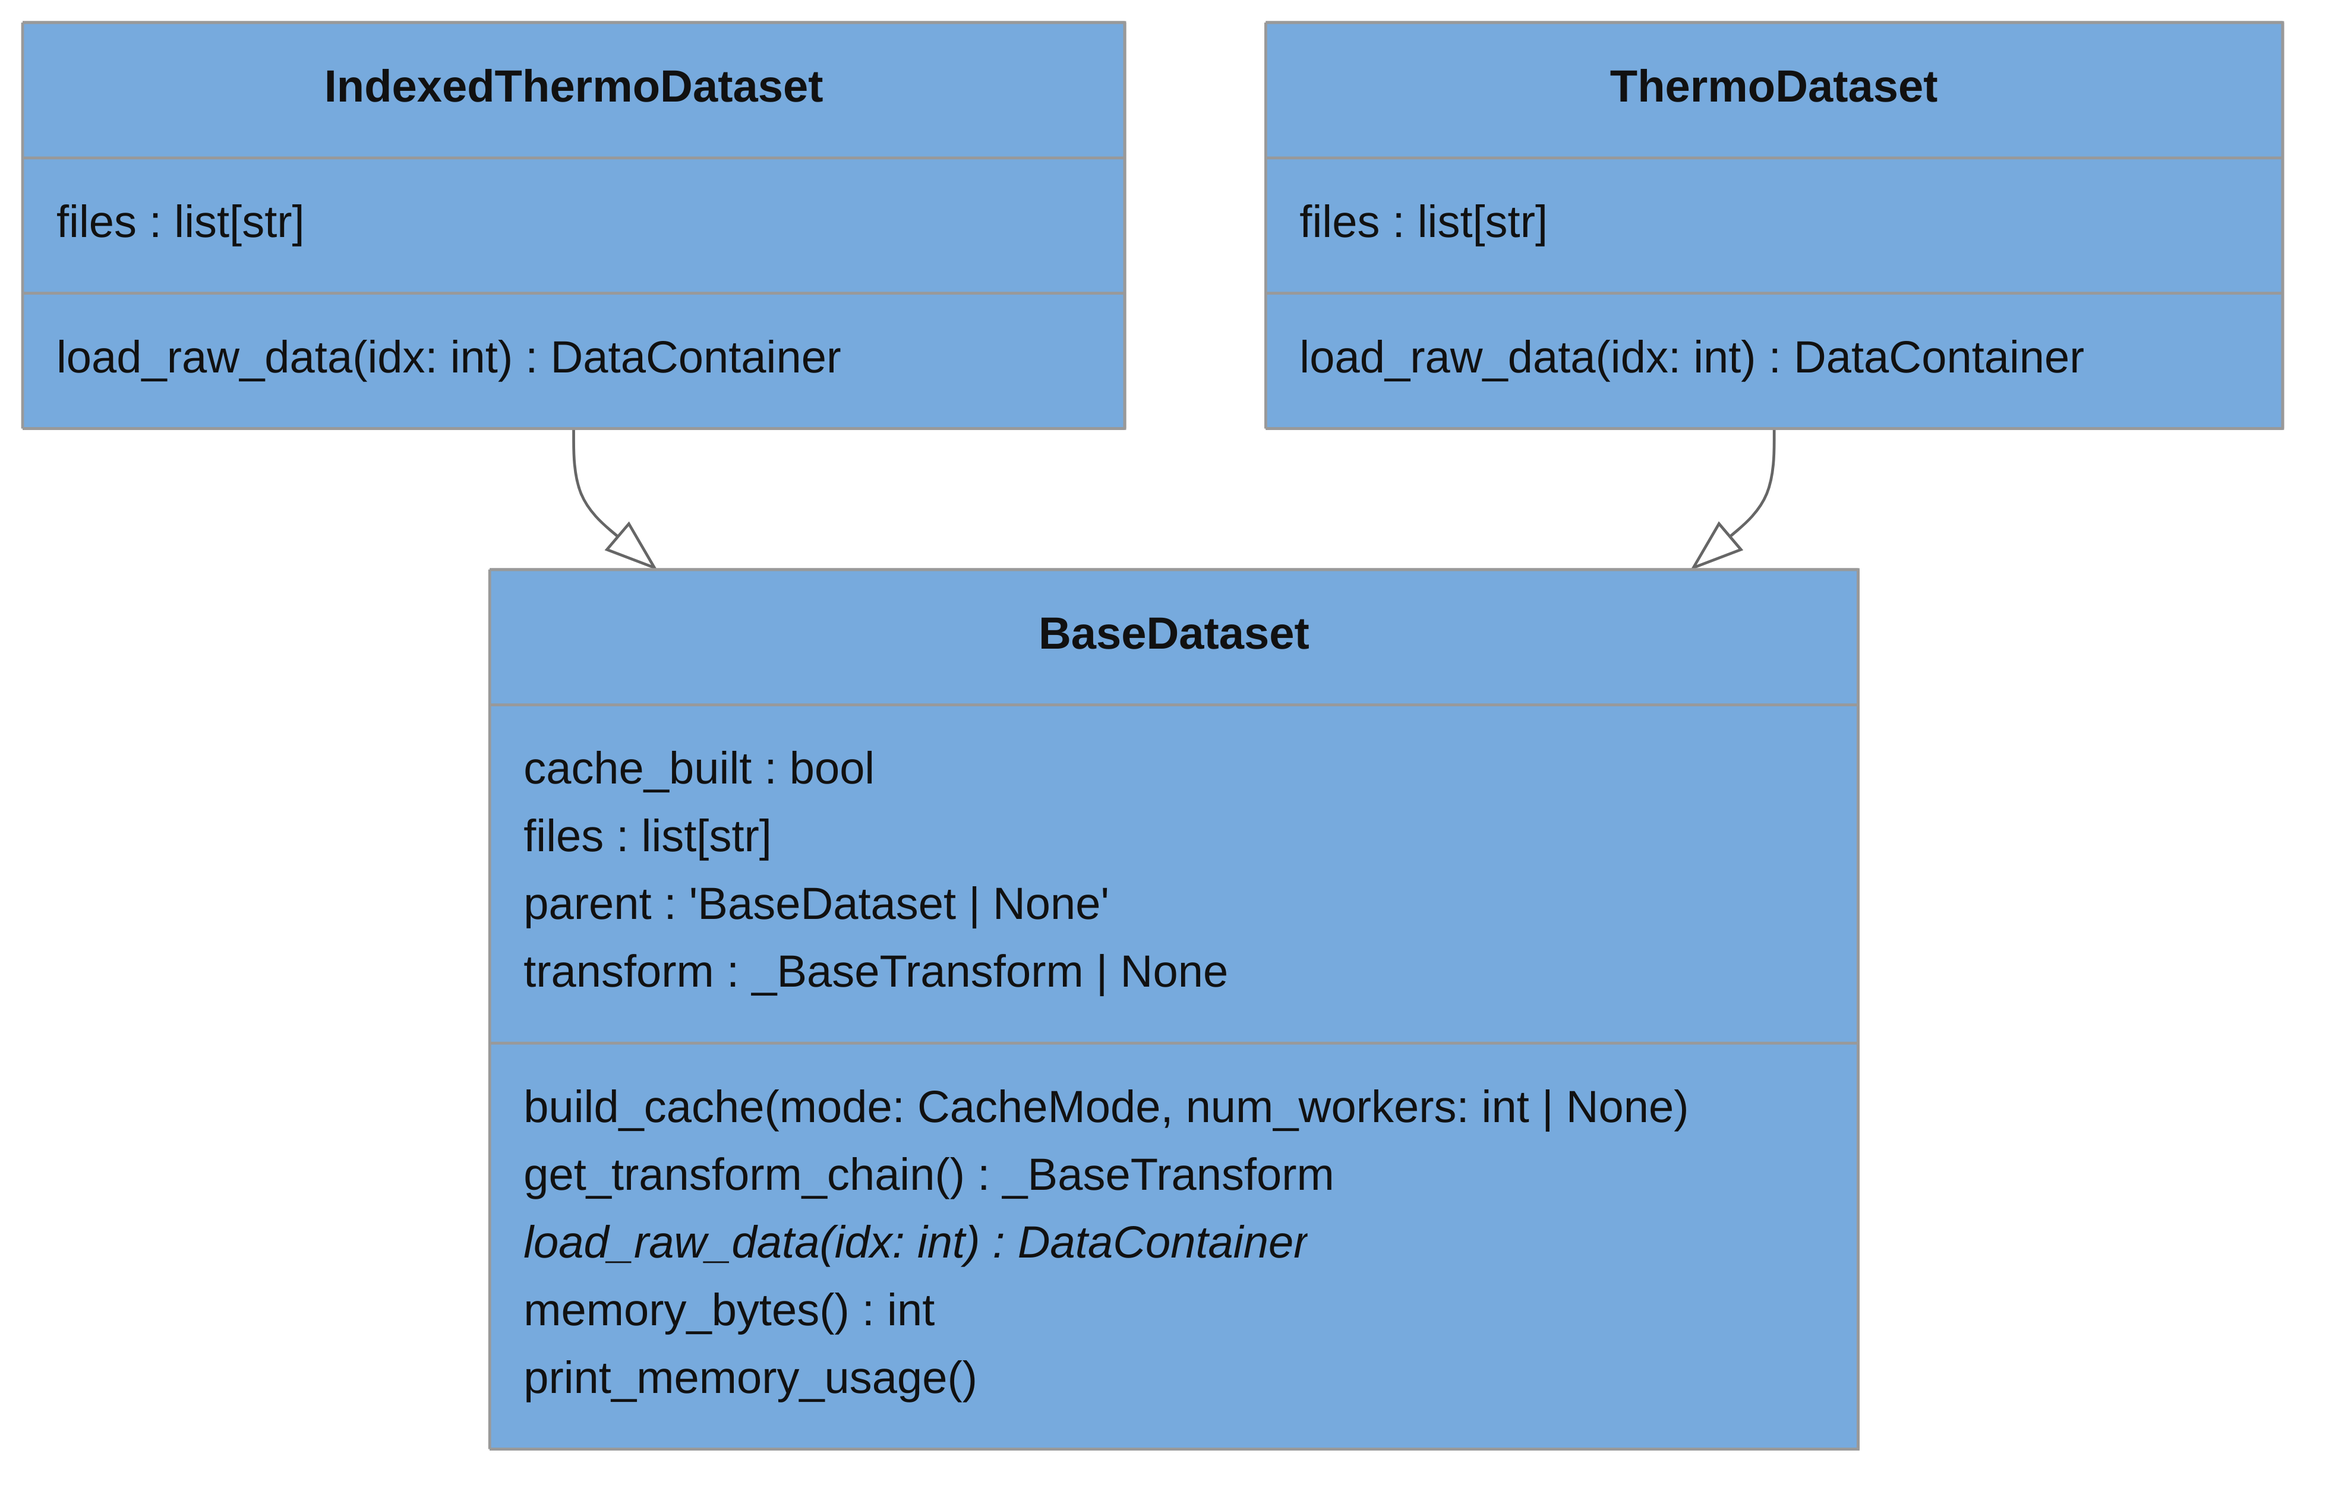
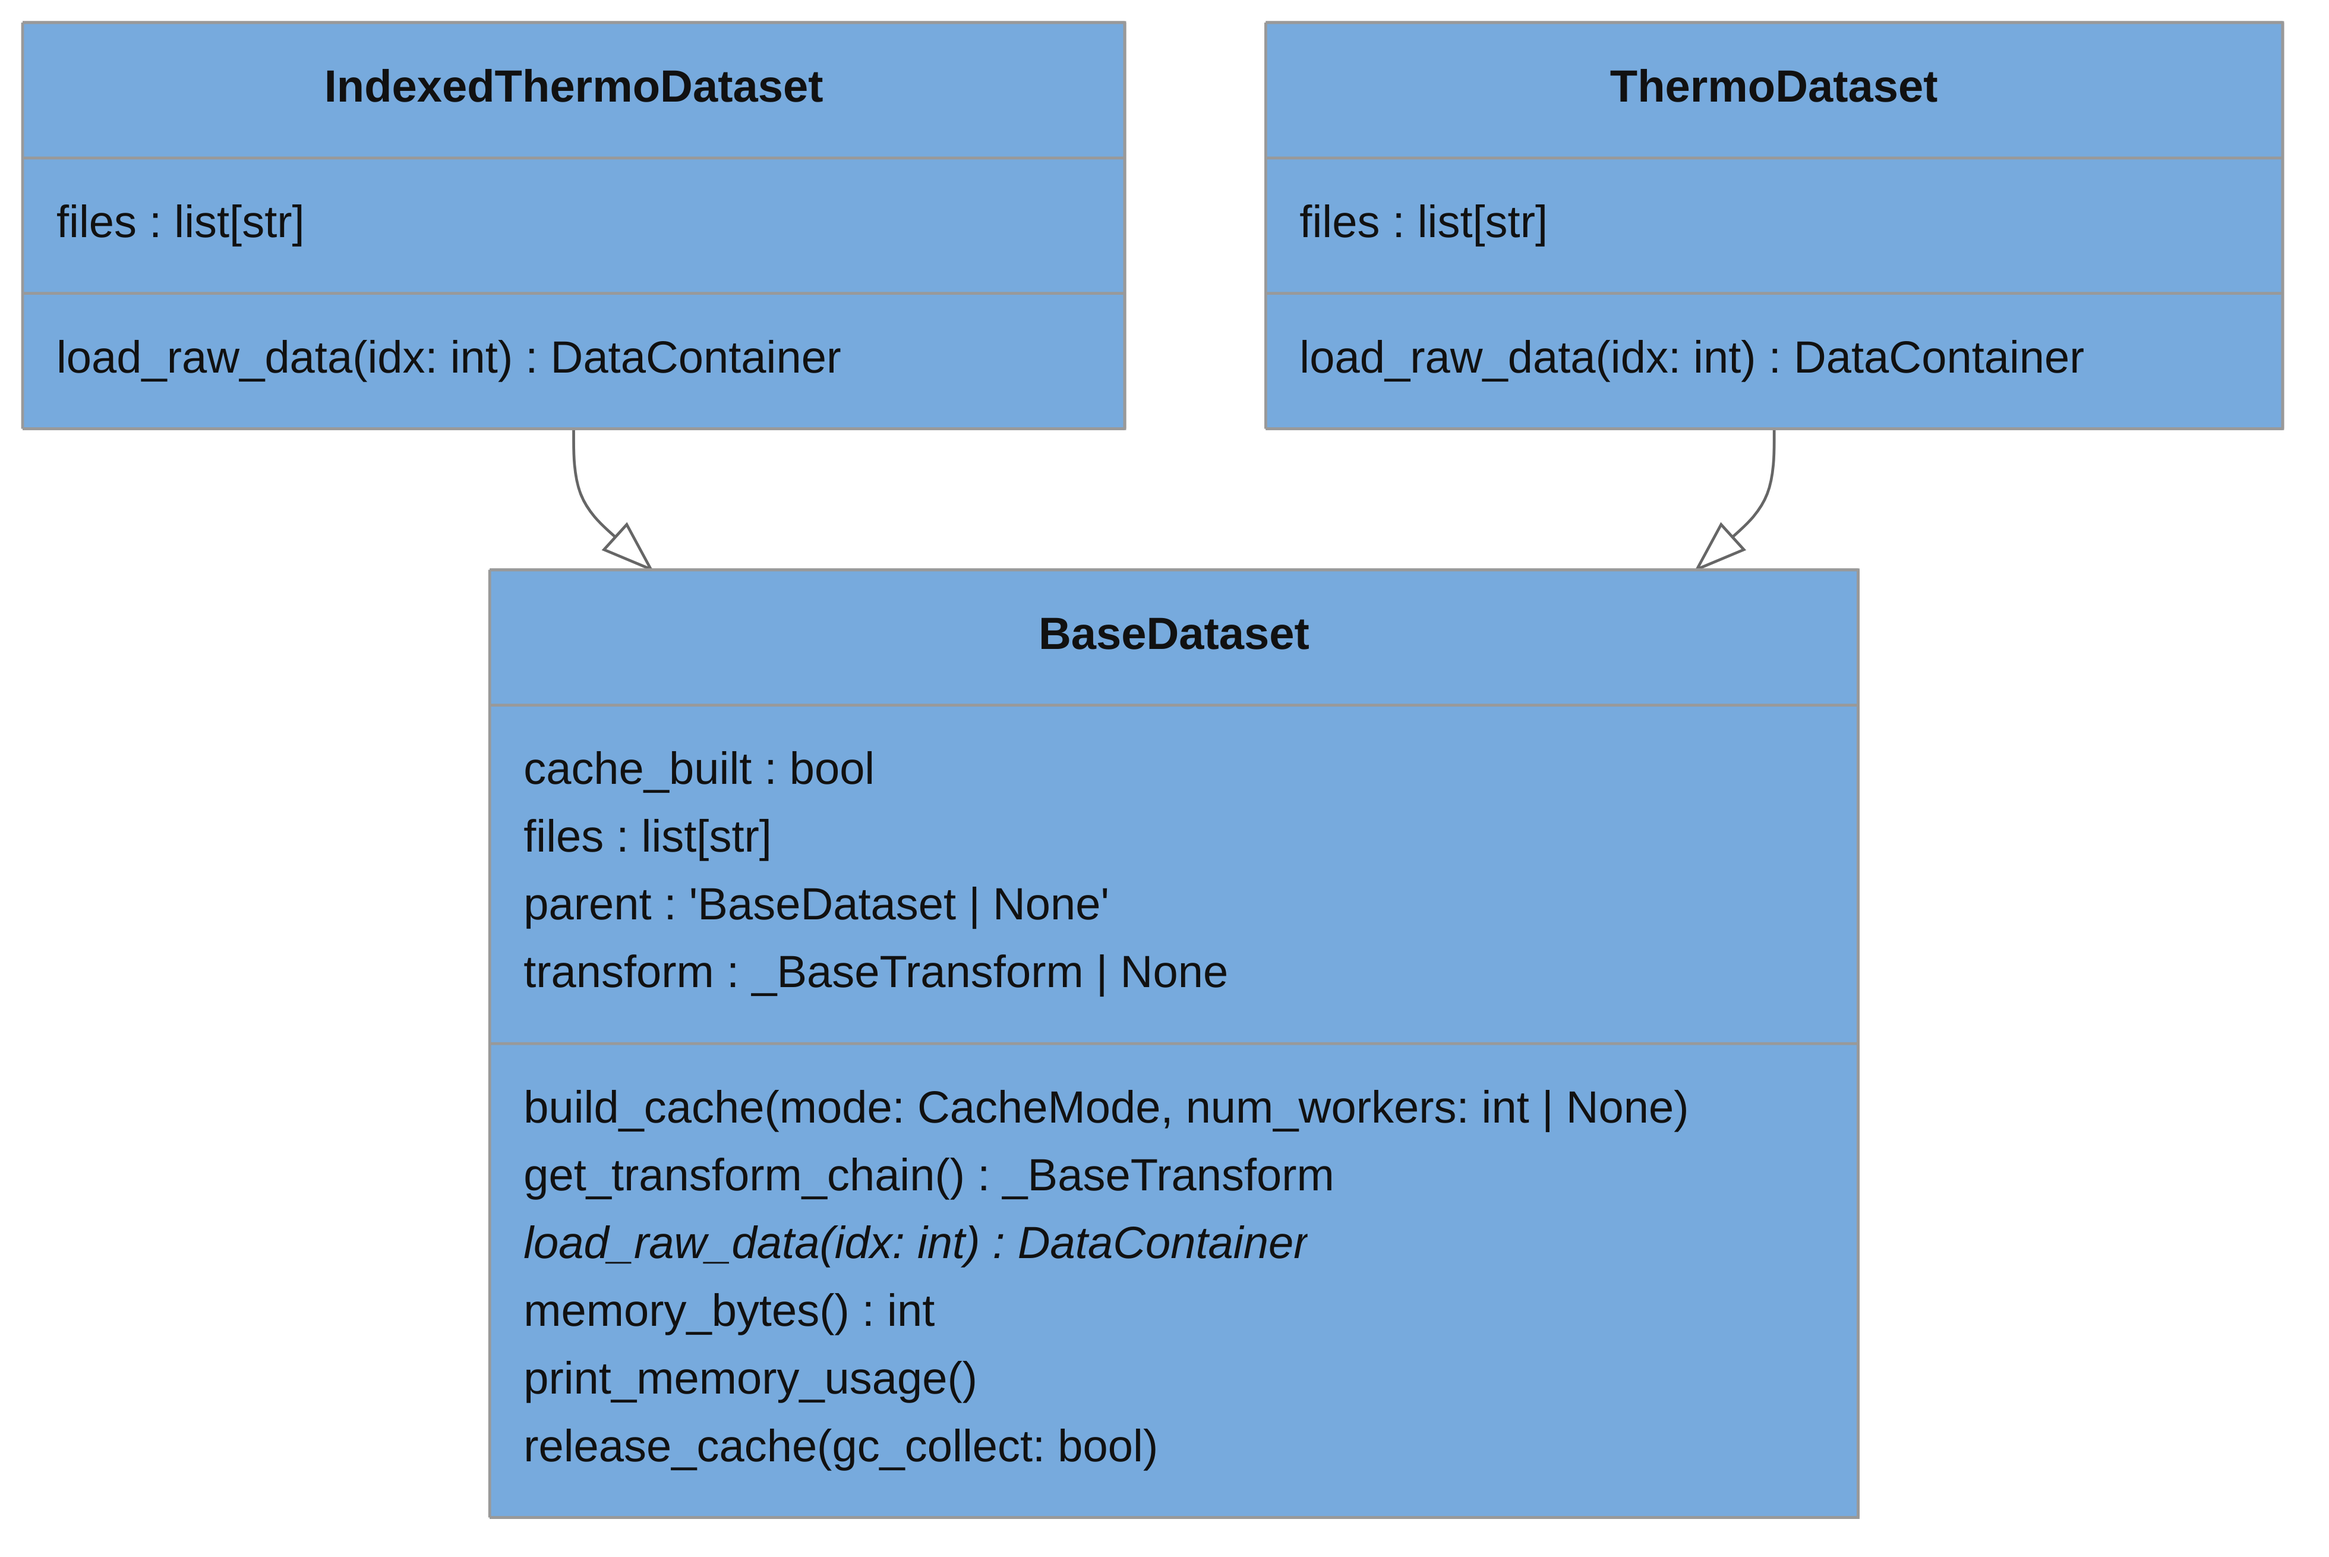
Bump pylint from 3.3.9 to 4.0.0 (#218)
* Bump pylint from 3.3.9 to 4.0.0

Bumps [pylint](https://github.com/pylint-dev/pylint) from 3.3.9 to 4.0.0.
- [Release notes](https://github.com/pylint-dev/pylint/releases)
- [Commits](https://github.com/pylint-dev/pylint/compare/v3.3.9...v4.0.0)

---
updated-dependencies:
- dependency-name: pylint
  dependency-version: 4.0.0
  dependency-type: direct:development
  update-type: version-update:semver-major
...

* Resolve useless supression error

* Disable too many branches for SimulationParser

* Update pylint version for diagram generation

* Update mermaid diagrams

---------

diff --git a/src/pythermondt/io/parsers/simulation_parser.py b/src/pythermondt/io/parsers/simulation_parser.py
@@ -14,7 +14,7 @@ class SimulationParser(BaseParser):
     supported_extensions = (".mat",)
 
     @staticmethod
-    def parse(data: IOPathWrapper) -> DataContainer:
+    def parse(data: IOPathWrapper) -> DataContainer:  # pylint: disable=too-many-branches
         """Parses the data from the given IOPathWrapper object into a DataContainer object.
 
         The IOPathWrapper object must contain a .mat file with simulattion data from COMSOL.

diff --git a/src/pythermondt/io/backends/progress.py b/src/pythermondt/io/backends/progress.py
@@ -1,7 +1,7 @@
 from tqdm.auto import tqdm
 
 
-class TqdmCallback(tqdm):  # pylint: disable=inconsistent-mro
+class TqdmCallback(tqdm):
     """Progress bar with callback support.
 
     This allows to display a progress bar for long running operations that provide a callback function.
